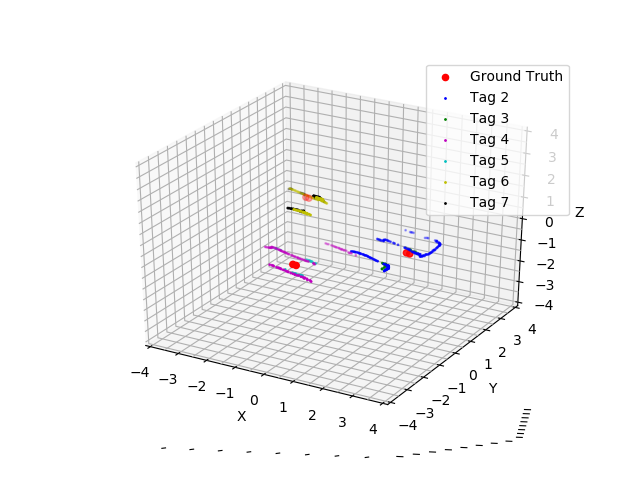
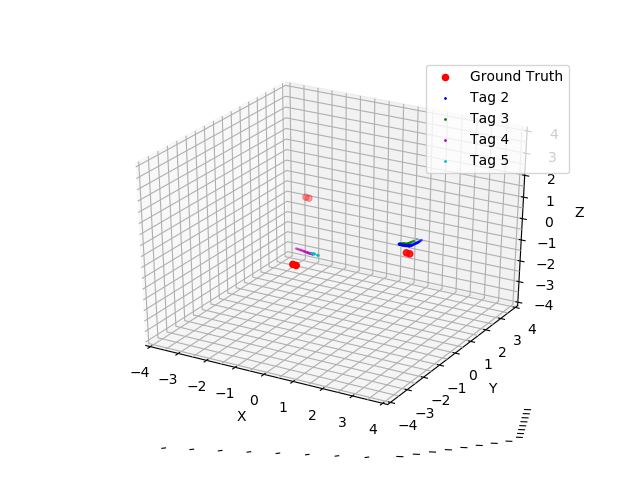
final commit

diff --git a/src/sar/waypoints.py b/src/sar/waypoints.py
@@ -5,7 +5,7 @@ from geometry_msgs.msg import Pose, PoseArray
 grid_size = 7
 step_size = 0.5
 pattern = 'lawnmower'
-height = 1
+height = 0.4
 
 def waypoints():
     # Initialize the ROS node
@@ -27,7 +27,7 @@ def waypoints():
             num_cols = grid_size
             row_step = step_size
             col_step = step_size
-            boundary = 5
+            boundary = 4.5
 
             xyz_list = []
             for row in range(num_rows+1):  # Include the last row
